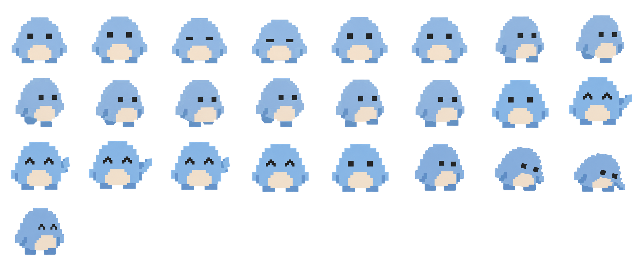
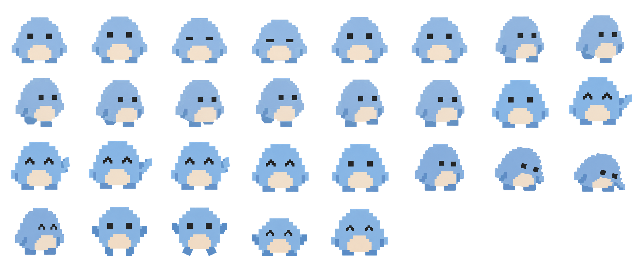
feat(companion): add bounded dragging and landing reactions

Changed region(s): [[0.375, 0.8125, 0.625, 1.0], [0.125, 0.8125, 0.375, 1.0]]

diff --git a/src/components/companion.tsx b/src/components/companion.tsx
@@ -1,6 +1,7 @@
 "use client";
 
 import { useEffect, useRef } from "react";
+import { clampCompanion } from "@/lib/companion-bounds";
 import styles from "./companion.module.css";
 
 const poses = {
@@ -8,6 +9,8 @@ const poses = {
   walk: { offset: 6, durations: [160, 160, 160, 160, 160, 160, 160, 160] },
   wave: { offset: 14, durations: [120, 160, 180, 160, 220, 650, 250] },
   curious: { offset: 21, durations: [650, 650, 450, 850] },
+  drag: { offset: 25, durations: [220, 220] },
+  land: { offset: 27, durations: [140, 260] },
 };
 type Pose = keyof typeof poses;
 
@@ -21,10 +24,16 @@ export function Companion() {
     const reduced = matchMedia("(prefers-reduced-motion: reduce)");
     let pose: Pose = "idle", frame = 0, elapsed = 0, age = 0, cooldown = 0;
     let x = 0, direction = 1, width = 0, petWidth = 80;
+    let lift = 0, velocity = 0, dropping = false, keyboardDrag = false, suppressClick = false;
+    let drag: { id: number; startX: number; startY: number; x: number; lift: number; moved: boolean } | null = null;
     let hovered = false, focused = false, visible = false, dialog = false;
     let raf = 0, last = 0, idleDelay = 900;
     const target = () => width - petWidth * .8125;
-    const position = () => { pet.style.transform = `translateX(${x}px)`; };
+    const position = () => { pet.style.transform = `translate(${x}px, ${-lift}px)`; };
+    const clamp = () => {
+      const rect = stage.getBoundingClientRect();
+      ({ x, lift } = clampCompanion(x, lift, width, Math.min(rect.height, rect.bottom), petWidth, pet.offsetHeight));
+    };
     const paint = () => {
       const index = poses[pose].offset + frame;
       sprite.style.backgroundPosition = `${(index % 8) / 7 * 100}% ${Math.floor(index / 8) / 3 * 100}%`;
@@ -39,6 +48,7 @@ export function Companion() {
       paint();
     };
     const resize = () => {
+      if (drag || keyboardDrag || dropping) finish(true);
       const ratio = width ? x / width : .64;
       width = stage.clientWidth; petWidth = pet.offsetWidth;
       x = pose === "curious" ? target() : Math.max(0, Math.min(target(), width * ratio));
@@ -47,16 +57,23 @@ export function Companion() {
     const tick = (now: number) => {
       const dt = last ? Math.min(now - last, 80) : 0; last = now;
       elapsed += dt; age += dt; cooldown = Math.max(0, cooldown - dt);
+      if (dropping) {
+        velocity += dt * .002;
+        lift = Math.max(0, lift - velocity * dt);
+        if (!lift) { dropping = false; change("land"); }
+        position();
+      }
       if (elapsed >= poses[pose].durations[frame]) {
         elapsed = 0; frame++;
         if (frame === poses[pose].durations.length) {
           if (pose === "curious") { direction = -1; cooldown = 30000; change("idle"); }
           else if (pose === "wave") { change("idle"); idleDelay = 500; }
+          else if (pose === "land") { change("idle"); idleDelay = 450; }
           else frame = 0;
         }
         paint();
       }
-      if (pose === "idle" && age > idleDelay && !hovered && !focused) change("walk");
+      if (pose === "idle" && age > idleDelay && !hovered && !focused && !drag && !keyboardDrag) change("walk");
       if (pose === "walk") {
         x += direction * dt * .022;
         if (x >= target()) {
@@ -73,27 +90,76 @@ export function Companion() {
       cancelAnimationFrame(raf); raf = 0; last = 0;
       const active = visible && !document.hidden && !reduced.matches && !dialog;
       stage.dataset.paused = String(!active);
+      if (!visible || document.hidden || dialog || reduced.matches) finish(true);
       if (reduced.matches) change("idle");
       if (active) raf = requestAnimationFrame(tick);
     };
-    const hello = () => {
-      if (reduced.matches || pose === "wave") return;
+    const hello = (event?: Event) => {
+      if (event?.type === "click" && suppressClick) { suppressClick = false; return; }
+      if (drag?.moved || keyboardDrag || dropping || reduced.matches || pose === "wave") return;
       if (pose === "curious") { cooldown = 30000; direction = -1; }
       change("wave");
     };
     const enter = (event: PointerEvent) => { if (event.pointerType !== "touch") { hovered = true; hello(); } };
     const resumeSoon = () => { if (pose === "idle") { age = 0; idleDelay = 450; } };
     const leave = () => { hovered = false; resumeSoon(); };
-    // Pointer focus must not pin Pogo in place after a click or tap.
-    const pointerDown = () => { focused = false; };
+    const finish = (immediate = false) => {
+      const wasMoving = drag?.moved || keyboardDrag || dropping;
+      const pointer = drag?.id;
+      drag = null; keyboardDrag = false;
+      if (pointer !== undefined && pet.hasPointerCapture(pointer)) pet.releasePointerCapture(pointer);
+      stage.dataset.dragging = "false";
+      if (!wasMoving) return;
+      hovered = false; velocity = 0; cooldown = 30000;
+      dropping = lift > 0 && !immediate && !reduced.matches;
+      if (!dropping) { lift = 0; change(immediate || reduced.matches ? "idle" : "land"); idleDelay = 450; }
+      position();
+    };
+    const pointerDown = (event: PointerEvent) => {
+      if (!event.isPrimary || event.button !== 0 || keyboardDrag) return;
+      focused = false; suppressClick = false;
+      const catching = dropping;
+      if (catching) { dropping = false; suppressClick = true; change("drag"); stage.dataset.dragging = "true"; }
+      if (pose === "walk") change("idle");
+      drag = { id: event.pointerId, startX: event.clientX, startY: event.clientY, x, lift, moved: catching };
+      pet.setPointerCapture(event.pointerId);
+    };
+    const pointerMove = (event: PointerEvent) => {
+      if (!drag || event.pointerId !== drag.id) return;
+      const dx = event.clientX - drag.startX, dy = event.clientY - drag.startY;
+      if (!drag.moved && Math.hypot(dx, dy) < 5) return;
+      if (!drag.moved) { drag.moved = true; suppressClick = true; change("drag"); stage.dataset.dragging = "true"; }
+      x = drag.x + dx; lift = drag.lift - dy;
+      clamp(); position();
+    };
+    const pointerEnd = (event: PointerEvent) => { if (drag?.id === event.pointerId) finish(event.type !== "pointerup"); };
+    const keyDown = (event: KeyboardEvent) => {
+      if (event.code === "Space" && !drag) {
+        event.preventDefault();
+        if (event.repeat) return;
+        if (keyboardDrag) finish();
+        else { dropping = false; keyboardDrag = true; clamp(); change("drag"); stage.dataset.dragging = "true"; position(); }
+      } else if (keyboardDrag && (event.key === "Enter" || event.key === "Escape")) {
+        event.preventDefault(); finish();
+      } else if (keyboardDrag && event.key.startsWith("Arrow")) {
+        event.preventDefault();
+        x += event.key === "ArrowRight" ? 12 : event.key === "ArrowLeft" ? -12 : 0;
+        lift += event.key === "ArrowUp" ? 12 : event.key === "ArrowDown" ? -12 : 0;
+        clamp(); position();
+      }
+    };
     const focus = () => { focused = pet.matches(":focus-visible"); if (focused && pose === "walk") change("idle"); };
-    const blur = () => { focused = false; resumeSoon(); };
+    const blur = () => { focused = false; if (keyboardDrag) finish(); resumeSoon(); };
+    const scroll = () => { if (drag || keyboardDrag || dropping) finish(true); };
     const onDialog = (event: Event) => { dialog = (event as CustomEvent<boolean>).detail; sync(); };
     const intersection = new IntersectionObserver(([entry]) => { visible = entry.isIntersecting; sync(); });
     const sizing = new ResizeObserver(resize);
     resize(); paint(); intersection.observe(stage); sizing.observe(stage);
     pet.addEventListener("pointerenter", enter); pet.addEventListener("pointerleave", leave);
     pet.addEventListener("pointerdown", pointerDown);
+    pet.addEventListener("pointermove", pointerMove); pet.addEventListener("pointerup", pointerEnd);
+    pet.addEventListener("pointercancel", pointerEnd); pet.addEventListener("lostpointercapture", pointerEnd);
+    pet.addEventListener("keydown", keyDown); window.addEventListener("scroll", scroll, { passive: true });
     pet.addEventListener("click", hello); pet.addEventListener("focus", focus); pet.addEventListener("blur", blur);
     reduced.addEventListener("change", sync); document.addEventListener("visibilitychange", sync);
     document.addEventListener("portfolio:dialog", onDialog);
@@ -101,6 +167,9 @@ export function Companion() {
       cancelAnimationFrame(raf); intersection.disconnect(); sizing.disconnect();
       pet.removeEventListener("pointerenter", enter); pet.removeEventListener("pointerleave", leave);
       pet.removeEventListener("pointerdown", pointerDown);
+      pet.removeEventListener("pointermove", pointerMove); pet.removeEventListener("pointerup", pointerEnd);
+      pet.removeEventListener("pointercancel", pointerEnd); pet.removeEventListener("lostpointercapture", pointerEnd);
+      pet.removeEventListener("keydown", keyDown); window.removeEventListener("scroll", scroll);
       pet.removeEventListener("click", hello); pet.removeEventListener("focus", focus); pet.removeEventListener("blur", blur);
       reduced.removeEventListener("change", sync); document.removeEventListener("visibilitychange", sync);
       document.removeEventListener("portfolio:dialog", onDialog);
@@ -109,8 +178,9 @@ export function Companion() {
 
   return <div ref={stageRef} className={styles.stage} data-companion="pogo">
     <span className={styles.dot} aria-hidden="true" />
-    <button ref={petRef} type="button" className={styles.pet} aria-label="Say hello to Pogo">
+    <button ref={petRef} type="button" className={styles.pet} aria-label="Say hello to Pogo" aria-describedby="pogo-controls">
       <span ref={spriteRef} className={styles.sprite} aria-hidden="true" />
     </button>
+    <span id="pogo-controls" className="sr-only">Drag to move Pogo. Keyboard: Space to pick up, arrow keys to move, Enter or Escape to put down.</span>
   </div>;
 }

diff --git a/src/components/companion.module.css b/src/components/companion.module.css
@@ -1,5 +1,6 @@
 .stage { position:absolute; top:-168px; left:-24px; right:-24px; height:168px; pointer-events:none; }
-.pet { position:absolute; bottom:0; left:0; width:80px; height:64px; padding:0; border:0; background:none; pointer-events:auto; touch-action:manipulation; border-radius:8px; }
+.pet { position:absolute; bottom:0; left:0; width:80px; height:64px; padding:0; border:0; background:none; pointer-events:auto; touch-action:none; user-select:none; cursor:grab; border-radius:8px; }
+.stage[data-dragging=true] .pet { cursor:grabbing; }
 .sprite { display:block; width:100%; height:100%; background:url('/images/pogo.webp') 0 0 / 800% 400% no-repeat; image-rendering:pixelated; pointer-events:none; }
 .dot { position:absolute; bottom:-2px; right:-2px; width:4px; height:4px; border-radius:50%; background:var(--muted); opacity:.5; transition:background .2s,box-shadow .2s; }
 .stage[data-touching=true] .dot { background:var(--blue); opacity:1; box-shadow:0 0 0 4px #8da7ff22; }

diff --git a/tests/companion-bounds.test.ts b/tests/companion-bounds.test.ts
@@ -1,0 +1,12 @@
+import test from "node:test";
+import assert from "node:assert/strict";
+import { clampCompanion } from "../src/lib/companion-bounds.ts";
+
+test("drag clamps left/right rails, floor, and top screen including partial scroll", () => {
+  assert.deepEqual(clampCompanion(-50, -40, 688, 168, 80, 64), { x: 0, lift: 0 });
+  assert.deepEqual(clampCompanion(900, 900, 688, 168, 80, 64), { x: 608, lift: 104 });
+  assert.deepEqual(clampCompanion(400, 900, 359, 88, 60, 48), { x: 299, lift: 40 });
+  assert.deepEqual(clampCompanion(100, 900, 688, 100, 80, 64), { x: 100, lift: 36 });
+  assert.deepEqual(clampCompanion(100, 30, 688, 168, 80, 64), { x: 100, lift: 30 });
+  assert.deepEqual(clampCompanion(100, 30, 40, 20, 60, 48), { x: 0, lift: 0 });
+});

diff --git a/src/lib/companion-bounds.ts b/src/lib/companion-bounds.ts
@@ -1,0 +1,7 @@
+/** Keep the entire sprite canvas inside the rails, floor, and visible screen. */
+export function clampCompanion(x: number, lift: number, width: number, floor: number, petWidth: number, petHeight: number) {
+  return {
+    x: Math.max(0, Math.min(x, Math.max(0, width - petWidth))),
+    lift: Math.max(0, Math.min(lift, Math.max(0, floor - petHeight))),
+  };
+}
